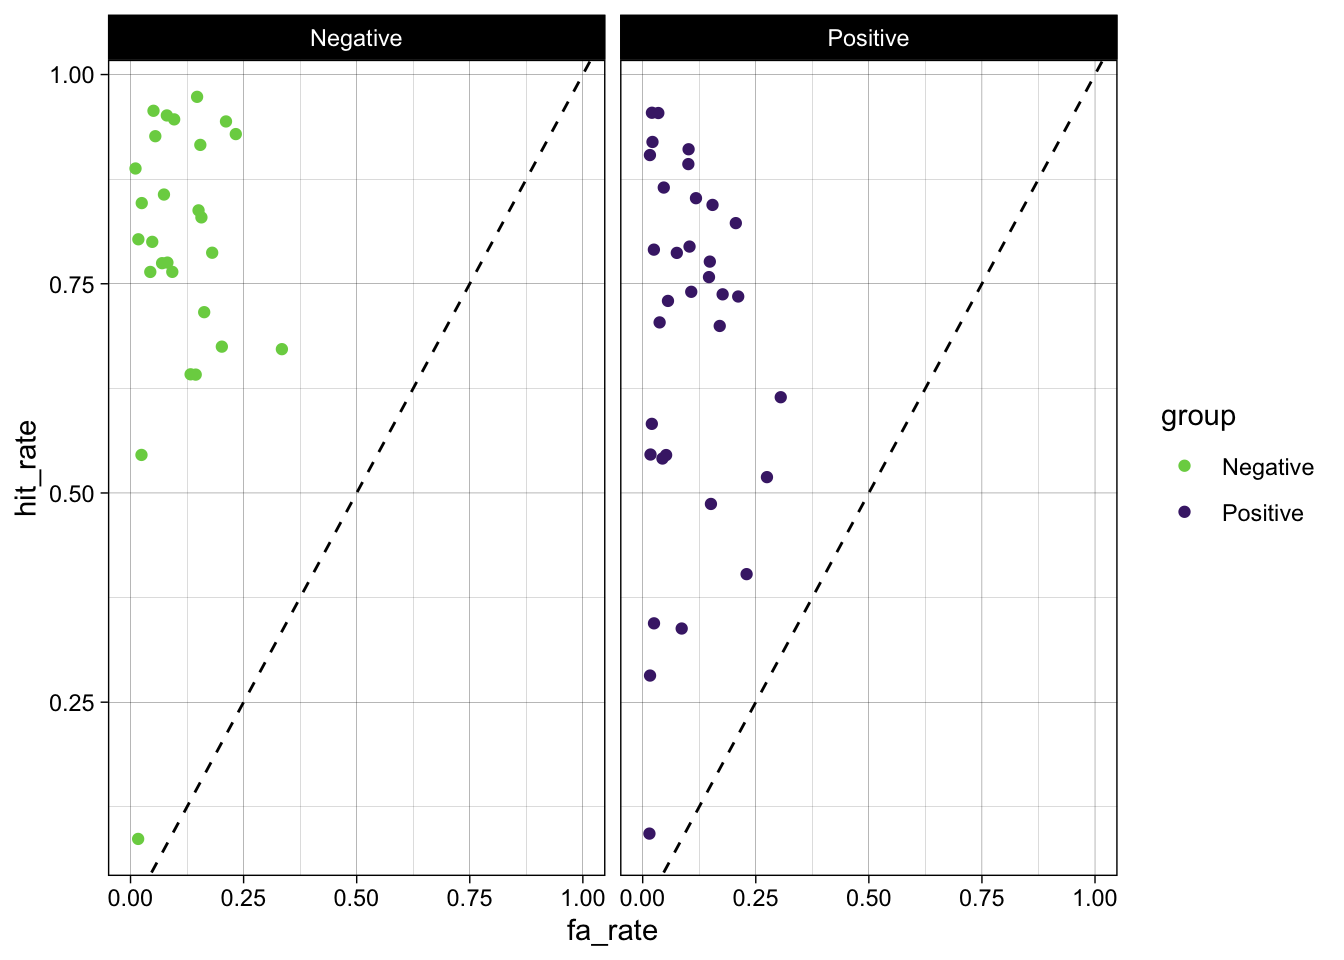
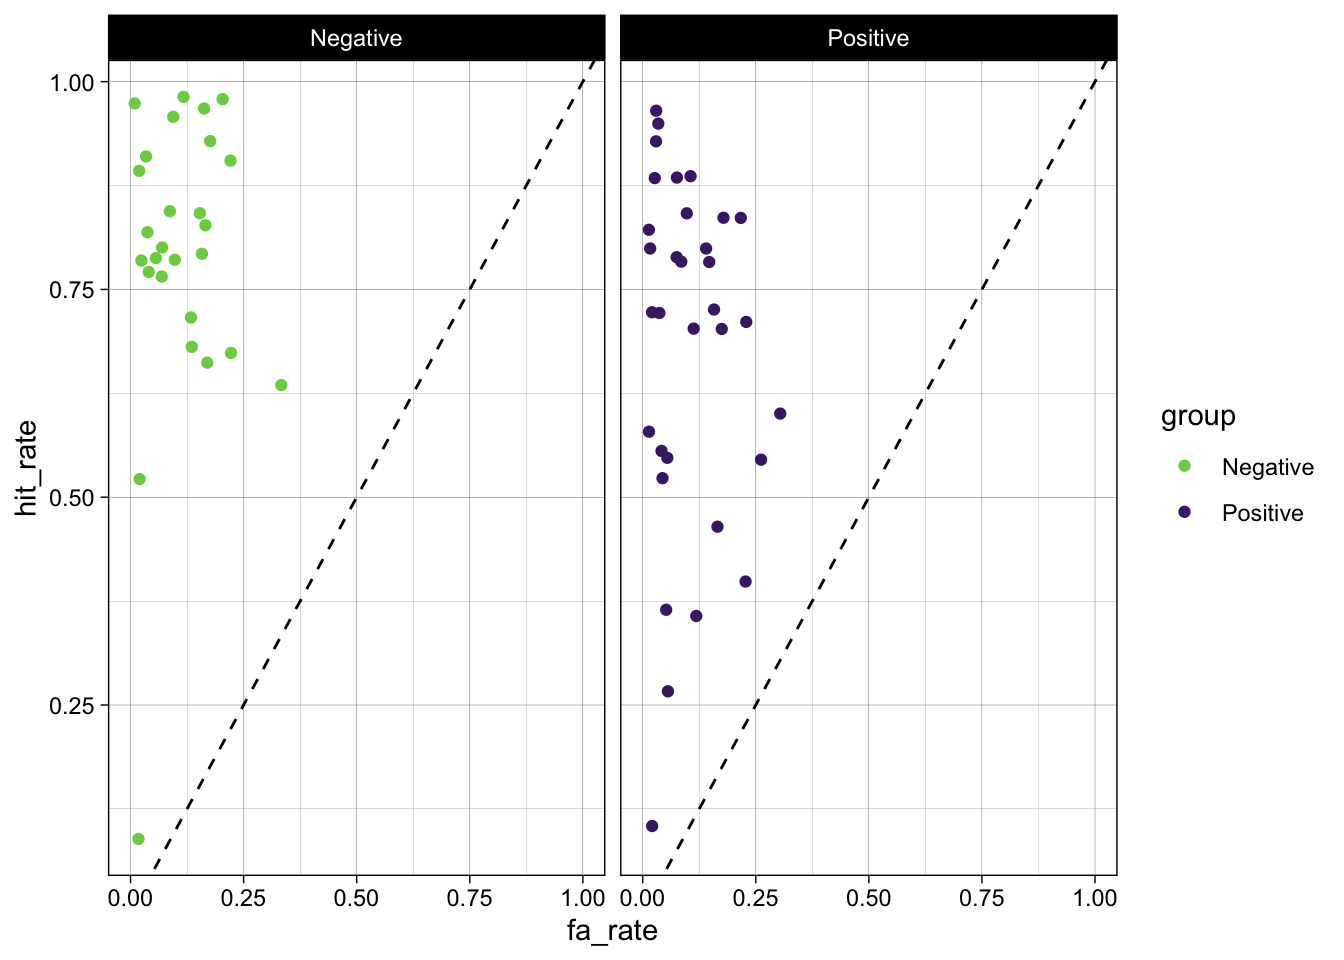
Fix typos

diff --git a/docs/pages/chapters/uebung-4-signal-detection.html b/docs/pages/chapters/uebung-4-signal-detection.html
@@ -493,7 +493,7 @@ dbl (5): ID, hit, miss, fa, cr
 ℹ Specify the column types or set `show_col_types = FALSE` to quiet this message.</code></pre>
 </div>
 </div>
-<p>Immer zuerst Daten anschauen.</p>
+<p>Wir empfehlen, immer zuerst die Daten anzuschauen.</p>
 <div class="cell">
 <div class="sourceCode" id="cb4"><pre class="downlit sourceCode r code-with-copy"><code class="sourceCode R"><span><span class="va">d</span></span></code><button title="Copy to Clipboard" class="code-copy-button"><i class="bi"></i></button></pre></div>
 <div class="cell-output cell-output-stdout">
@@ -528,8 +528,8 @@ dbl (5): ID, hit, miss, fa, cr
 <li>
 <code>cr</code>: Anzahl correct rejections</li>
 </ul>
-<p>Im Datensatz gibt es es einige Nullen – z.B. hat die Person mit der <code>ID</code> 1 keine False Alarms. Dies ist problematisch, weil wir die relative Häufigkeiten von Hits (<code>hit_rate</code>) und False Alarms (<code>fa_rate</code>) berechnen und anschliessen diese z-transformieren wollen. Die <code>fa_rate</code> ist der Anteil ‘Ja’-Antworten wenn das Wort tatsächlich aber nicht auf der Liste war, also <code>fa / (fa + cr)</code>. Bei der ersten Person wäre dies <code>0/(0 + 15) = 0</code>.</p>
-<p>Das Problem ist nun, dass die relative Häufigkeit hier als <span class="math inline">\(0\)</span> geschätzt wird - eine Wahrscheinlichkeit darf aber eigentlich nicht <span class="math inline">\(0\)</span> sein, sondern liegt zwischen <span class="math inline">\(-\infty\)</span> und <span class="math inline">\(\infty\)</span>. Wenn wir <code><a href="https://rdrr.io/r/stats/Normal.html">qnorm()</a></code> (die Quantilfunktion der Normalverteilung) auf den Wert <span class="math inline">\(0\)</span> anwenden, erhalten wir:</p>
+<p>Im Datensatz gibt es es einige Nullen – z.B. hat die Person mit der <code>ID</code> 1 keine False Alarms. Dies ist problematisch, weil wir die relative Häufigkeiten von Hits (<code>hit_rate</code>) und False Alarms (<code>fa_rate</code>) berechnen und diese anschliessend z-transformieren wollen. Die <code>fa_rate</code> ist der Anteil ‘Ja’-Antworten wenn das Wort tatsächlich gar nicht auf der Liste war, also <code>fa / (fa + cr)</code>. Bei der ersten Person wäre dies <code>0/(0 + 15) = 0</code>.</p>
+<p>Das Problem ist nun, dass wir hier mit der relativen Häufigkeit eine Wahrscheinlichkeit schätzen - eine Wahrscheinlichkeit darf aber nicht <span class="math inline">\(0\)</span> sein, sondern liegt zwischen <span class="math inline">\(-\infty\)</span> und <span class="math inline">\(\infty\)</span>. Wenn wir <code><a href="https://rdrr.io/r/stats/Normal.html">qnorm()</a></code> (die Quantilfunktion der Normalverteilung) auf den Wert <span class="math inline">\(0\)</span> anwenden, erhalten wir:</p>
 <div class="cell">
 <div class="sourceCode" id="cb6"><pre class="downlit sourceCode r code-with-copy"><code class="sourceCode R"><span><span class="fu"><a href="https://rdrr.io/r/stats/Normal.html">qnorm</a></span><span class="op">(</span><span class="fl">0</span><span class="op">)</span></span></code><button title="Copy to Clipboard" class="code-copy-button"><i class="bi"></i></button></pre></div>
 <div class="cell-output cell-output-stdout">
@@ -560,9 +560,28 @@ dbl (5): ID, hit, miss, fa, cr
 <div class="sourceCode" id="cb13"><pre class="downlit sourceCode r code-with-copy"><code class="sourceCode R"><span><span class="va">d</span> <span class="op">&lt;-</span> <span class="va">d</span> <span class="op">|&gt;</span></span>
 <span>    <span class="fu"><a href="https://dplyr.tidyverse.org/reference/mutate.html">mutate</a></span><span class="op">(</span><span class="fu"><a href="https://dplyr.tidyverse.org/reference/across.html">across</a></span><span class="op">(</span><span class="fu"><a href="https://rdrr.io/r/base/c.html">c</a></span><span class="op">(</span><span class="va">hit</span>, <span class="va">miss</span>, <span class="va">fa</span>, <span class="va">cr</span><span class="op">)</span>, <span class="va">add_half_count</span><span class="op">)</span><span class="op">)</span></span></code><button title="Copy to Clipboard" class="code-copy-button"><i class="bi"></i></button></pre></div>
 </div>
+<div class="cell">
+<div class="sourceCode" id="cb14"><pre class="downlit sourceCode r code-with-copy"><code class="sourceCode R"><span><span class="va">d</span></span></code><button title="Copy to Clipboard" class="code-copy-button"><i class="bi"></i></button></pre></div>
+<div class="cell-output cell-output-stdout">
+<pre><code># A tibble: 60 × 6
+      ID group      hit  miss    fa    cr
+   &lt;dbl&gt; &lt;chr&gt;    &lt;dbl&gt; &lt;dbl&gt; &lt;dbl&gt; &lt;dbl&gt;
+ 1     1 Negative  13.5   2.5   0.5  15.5
+ 2     2 Negative  12.5   3.5   1.5  14.5
+ 3     3 Negative  14.5   1.5   0.5  15.5
+ 4     4 Negative  12.5   3.5   1.5  14.5
+ 5     5 Negative  11.5   4.5   2.5  13.5
+ 6     6 Negative  12.5   3.5   1.5  14.5
+ 7     7 Negative  10.5   5.5   2.5  13.5
+ 8     8 Negative  13.5   2.5   1.5  14.5
+ 9     9 Negative  12.5   3.5   0.5  15.5
+10    10 Negative  12.5   3.5   2.5  13.5
+# ℹ 50 more rows</code></pre>
+</div>
+</div>
 </section><section id="hit-und-false-alarm-rate-berechnen" class="level2"><h2 class="anchored" data-anchor-id="hit-und-false-alarm-rate-berechnen">Hit und False Alarm Rate berechnen</h2>
 <div class="cell">
-<div class="sourceCode" id="cb14"><pre class="downlit sourceCode r code-with-copy"><code class="sourceCode R"><span><span class="va">d</span> <span class="op">&lt;-</span> <span class="va">d</span> <span class="op">|&gt;</span></span>
+<div class="sourceCode" id="cb16"><pre class="downlit sourceCode r code-with-copy"><code class="sourceCode R"><span><span class="va">d</span> <span class="op">&lt;-</span> <span class="va">d</span> <span class="op">|&gt;</span></span>
 <span>    <span class="fu"><a href="https://dplyr.tidyverse.org/reference/mutate.html">mutate</a></span><span class="op">(</span></span>
 <span>        hit_rate <span class="op">=</span> <span class="va">hit</span> <span class="op">/</span> <span class="op">(</span><span class="va">hit</span> <span class="op">+</span> <span class="va">miss</span><span class="op">)</span>,</span>
 <span>        fa_rate <span class="op">=</span> <span class="va">fa</span> <span class="op">/</span> <span class="op">(</span><span class="va">fa</span> <span class="op">+</span> <span class="va">cr</span><span class="op">)</span></span>
@@ -571,7 +590,7 @@ dbl (5): ID, hit, miss, fa, cr
 </section><section id="hit-rate-vs-false-alarm-rate" class="level2"><h2 class="anchored" data-anchor-id="hit-rate-vs-false-alarm-rate">Hit Rate vs False Alarm Rate</h2>
 <p>Bevor wir die SDT Kennzahlen berechnen, stellen wir die hit rate und false alarm rate grafisch dar:</p>
 <div class="cell">
-<div class="sourceCode" id="cb15"><pre class="downlit sourceCode r code-with-copy"><code class="sourceCode R"><span><span class="va">d</span> <span class="op">|&gt;</span></span>
+<div class="sourceCode" id="cb17"><pre class="downlit sourceCode r code-with-copy"><code class="sourceCode R"><span><span class="va">d</span> <span class="op">|&gt;</span></span>
 <span>      <span class="fu"><a href="https://ggplot2.tidyverse.org/reference/ggplot.html">ggplot</a></span><span class="op">(</span><span class="fu"><a href="https://ggplot2.tidyverse.org/reference/aes.html">aes</a></span><span class="op">(</span><span class="va">fa_rate</span>, <span class="va">hit_rate</span>, color <span class="op">=</span> <span class="va">group</span><span class="op">)</span><span class="op">)</span> <span class="op">+</span></span>
 <span>      <span class="fu"><a href="https://ggplot2.tidyverse.org/reference/geom_abline.html">geom_abline</a></span><span class="op">(</span>intercept <span class="op">=</span> <span class="fl">0</span>, slope <span class="op">=</span> <span class="fl">1</span>, linetype <span class="op">=</span> <span class="fl">2</span><span class="op">)</span> <span class="op">+</span></span>
 <span>      <span class="fu"><a href="https://ggplot2.tidyverse.org/reference/geom_jitter.html">geom_jitter</a></span><span class="op">(</span><span class="op">)</span> <span class="op">+</span></span>
@@ -580,19 +599,19 @@ dbl (5): ID, hit, miss, fa, cr
 <span>      <span class="fu"><a href="https://ggplot2.tidyverse.org/reference/lims.html">xlim</a></span><span class="op">(</span><span class="fu"><a href="https://rdrr.io/r/base/c.html">c</a></span><span class="op">(</span><span class="fl">0</span>, <span class="fl">1</span><span class="op">)</span><span class="op">)</span> <span class="op">+</span></span>
 <span>      <span class="fu"><a href="https://ggplot2.tidyverse.org/reference/ggtheme.html">theme_linedraw</a></span><span class="op">(</span><span class="op">)</span></span></code><button title="Copy to Clipboard" class="code-copy-button"><i class="bi"></i></button></pre></div>
 <div class="cell-output-display">
-<p><img src="uebung-4-signal-detection_files/figure-html/unnamed-chunk-10-1.png" class="img-fluid" width="672"></p>
+<p><img src="uebung-4-signal-detection_files/figure-html/unnamed-chunk-11-1.png" class="img-fluid" width="672"></p>
 </div>
 </div>
 </section><section id="d-und-bias-berechnen" class="level2"><h2 class="anchored" data-anchor-id="d-und-bias-berechnen">d’ und bias berechnen</h2>
 <div class="cell">
-<div class="sourceCode" id="cb16"><pre class="downlit sourceCode r code-with-copy"><code class="sourceCode R"><span><span class="va">d</span> <span class="op">&lt;-</span> <span class="va">d</span> <span class="op">|&gt;</span></span>
+<div class="sourceCode" id="cb18"><pre class="downlit sourceCode r code-with-copy"><code class="sourceCode R"><span><span class="va">d</span> <span class="op">&lt;-</span> <span class="va">d</span> <span class="op">|&gt;</span></span>
 <span>    <span class="fu"><a href="https://dplyr.tidyverse.org/reference/mutate.html">mutate</a></span><span class="op">(</span></span>
 <span>        zhr <span class="op">=</span> <span class="fu"><a href="https://rdrr.io/r/stats/Normal.html">qnorm</a></span><span class="op">(</span><span class="va">hit_rate</span><span class="op">)</span>,</span>
 <span>        zfa <span class="op">=</span> <span class="fu"><a href="https://rdrr.io/r/stats/Normal.html">qnorm</a></span><span class="op">(</span><span class="va">fa_rate</span><span class="op">)</span></span>
 <span>    <span class="op">)</span></span></code><button title="Copy to Clipboard" class="code-copy-button"><i class="bi"></i></button></pre></div>
 </div>
 <div class="cell">
-<div class="sourceCode" id="cb17"><pre class="downlit sourceCode r code-with-copy"><code class="sourceCode R"><span><span class="va">d</span> <span class="op">&lt;-</span> <span class="va">d</span> <span class="op">|&gt;</span></span>
+<div class="sourceCode" id="cb19"><pre class="downlit sourceCode r code-with-copy"><code class="sourceCode R"><span><span class="va">d</span> <span class="op">&lt;-</span> <span class="va">d</span> <span class="op">|&gt;</span></span>
 <span>    <span class="fu"><a href="https://dplyr.tidyverse.org/reference/mutate.html">mutate</a></span><span class="op">(</span></span>
 <span>        dprime <span class="op">=</span> <span class="va">zhr</span> <span class="op">-</span> <span class="va">zfa</span>,</span>
 <span>        k <span class="op">=</span> <span class="op">-</span><span class="va">zfa</span>,</span>
@@ -601,11 +620,11 @@ dbl (5): ID, hit, miss, fa, cr
 </div>
 <p>Wir runden nun <code>dprime, k</code> und <code>c</code> auf zwei Nachkommastellen.</p>
 <div class="cell">
-<div class="sourceCode" id="cb18"><pre class="downlit sourceCode r code-with-copy"><code class="sourceCode R"><span><span class="va">d</span> <span class="op">&lt;-</span> <span class="va">d</span> <span class="op">|&gt;</span></span>
+<div class="sourceCode" id="cb20"><pre class="downlit sourceCode r code-with-copy"><code class="sourceCode R"><span><span class="va">d</span> <span class="op">&lt;-</span> <span class="va">d</span> <span class="op">|&gt;</span></span>
 <span>    <span class="fu"><a href="https://dplyr.tidyverse.org/reference/mutate.html">mutate</a></span><span class="op">(</span><span class="fu"><a href="https://dplyr.tidyverse.org/reference/across.html">across</a></span><span class="op">(</span><span class="fu"><a href="https://rdrr.io/r/base/c.html">c</a></span><span class="op">(</span><span class="va">dprime</span>, <span class="va">k</span>, <span class="va">c</span><span class="op">)</span>, \<span class="op">(</span><span class="va">x</span><span class="op">)</span> <span class="fu"><a href="https://rdrr.io/r/base/Round.html">round</a></span><span class="op">(</span><span class="va">x</span>, <span class="fl">2</span><span class="op">)</span><span class="op">)</span><span class="op">)</span></span></code><button title="Copy to Clipboard" class="code-copy-button"><i class="bi"></i></button></pre></div>
 </div>
 <div class="cell">
-<div class="sourceCode" id="cb19"><pre class="downlit sourceCode r code-with-copy"><code class="sourceCode R"><span><span class="va">d</span></span></code><button title="Copy to Clipboard" class="code-copy-button"><i class="bi"></i></button></pre></div>
+<div class="sourceCode" id="cb21"><pre class="downlit sourceCode r code-with-copy"><code class="sourceCode R"><span><span class="va">d</span></span></code><button title="Copy to Clipboard" class="code-copy-button"><i class="bi"></i></button></pre></div>
 <div class="cell-output cell-output-stdout">
 <pre><code># A tibble: 60 × 13
       ID group   hit  miss    fa    cr hit_rate fa_rate   zhr   zfa dprime     k
@@ -626,19 +645,19 @@ dbl (5): ID, hit, miss, fa, cr
 </div>
 </section><section id="aggregierte-kennzahlen" class="level2"><h2 class="anchored" data-anchor-id="aggregierte-kennzahlen">Aggregierte Kennzahlen</h2>
 <div class="cell">
-<div class="sourceCode" id="cb21"><pre class="downlit sourceCode r code-with-copy"><code class="sourceCode R"><span><span class="va">se</span> <span class="op">&lt;-</span> <span class="kw">function</span><span class="op">(</span><span class="va">x</span><span class="op">)</span> <span class="op">{</span></span>
+<div class="sourceCode" id="cb23"><pre class="downlit sourceCode r code-with-copy"><code class="sourceCode R"><span><span class="va">se</span> <span class="op">&lt;-</span> <span class="kw">function</span><span class="op">(</span><span class="va">x</span><span class="op">)</span> <span class="op">{</span></span>
 <span>  <span class="fu"><a href="https://rdrr.io/r/stats/sd.html">sd</a></span><span class="op">(</span><span class="va">x</span><span class="op">)</span> <span class="op">/</span> <span class="fu"><a href="https://rdrr.io/r/base/MathFun.html">sqrt</a></span><span class="op">(</span><span class="fu"><a href="https://rdrr.io/r/base/length.html">length</a></span><span class="op">(</span><span class="va">x</span><span class="op">)</span><span class="op">)</span></span>
 <span><span class="op">}</span></span></code><button title="Copy to Clipboard" class="code-copy-button"><i class="bi"></i></button></pre></div>
 </div>
 <div class="cell">
-<div class="sourceCode" id="cb22"><pre class="downlit sourceCode r code-with-copy"><code class="sourceCode R"><span><span class="va">dprimes</span> <span class="op">&lt;-</span> <span class="va">d</span> <span class="op">|&gt;</span></span>
+<div class="sourceCode" id="cb24"><pre class="downlit sourceCode r code-with-copy"><code class="sourceCode R"><span><span class="va">dprimes</span> <span class="op">&lt;-</span> <span class="va">d</span> <span class="op">|&gt;</span></span>
 <span>  <span class="fu"><a href="https://dplyr.tidyverse.org/reference/select.html">select</a></span><span class="op">(</span><span class="va">group</span>, <span class="va">dprime</span><span class="op">)</span> <span class="op">|&gt;</span> </span>
 <span>  <span class="fu"><a href="https://dplyr.tidyverse.org/reference/group_by.html">group_by</a></span><span class="op">(</span><span class="va">group</span><span class="op">)</span> <span class="op">|&gt;</span> </span>
 <span>  <span class="fu"><a href="https://dplyr.tidyverse.org/reference/summarise.html">summarize</a></span><span class="op">(</span>mean <span class="op">=</span> <span class="fu"><a href="https://rdrr.io/r/base/mean.html">mean</a></span><span class="op">(</span><span class="va">dprime</span><span class="op">)</span>,</span>
 <span>            se <span class="op">=</span> <span class="fu">se</span><span class="op">(</span><span class="va">dprime</span><span class="op">)</span><span class="op">)</span></span></code><button title="Copy to Clipboard" class="code-copy-button"><i class="bi"></i></button></pre></div>
 </div>
 <div class="cell">
-<div class="sourceCode" id="cb23"><pre class="downlit sourceCode r code-with-copy"><code class="sourceCode R"><span><span class="va">cs</span> <span class="op">&lt;-</span> <span class="va">d</span> <span class="op">|&gt;</span> </span>
+<div class="sourceCode" id="cb25"><pre class="downlit sourceCode r code-with-copy"><code class="sourceCode R"><span><span class="va">cs</span> <span class="op">&lt;-</span> <span class="va">d</span> <span class="op">|&gt;</span> </span>
 <span>  <span class="fu"><a href="https://dplyr.tidyverse.org/reference/select.html">select</a></span><span class="op">(</span><span class="va">group</span>, <span class="va">c</span><span class="op">)</span> <span class="op">|&gt;</span> </span>
 <span>  <span class="fu"><a href="https://dplyr.tidyverse.org/reference/group_by.html">group_by</a></span><span class="op">(</span><span class="va">group</span><span class="op">)</span> <span class="op">|&gt;</span> </span>
 <span>  <span class="fu"><a href="https://dplyr.tidyverse.org/reference/summarise.html">summarize</a></span><span class="op">(</span>mean <span class="op">=</span> <span class="fu"><a href="https://rdrr.io/r/base/mean.html">mean</a></span><span class="op">(</span><span class="va">c</span><span class="op">)</span>,</span>
@@ -647,7 +666,7 @@ dbl (5): ID, hit, miss, fa, cr
 </section><section id="grafische-darstellung-von-d-und-bias" class="level2"><h2 class="anchored" data-anchor-id="grafische-darstellung-von-d-und-bias">Grafische Darstellung von <code>d'</code> und <code>bias</code>
 </h2>
 <div class="cell">
-<div class="sourceCode" id="cb24"><pre class="downlit sourceCode r code-with-copy"><code class="sourceCode R"><span><span class="va">p_dprimes</span> <span class="op">&lt;-</span> <span class="va">dprimes</span> <span class="op">|&gt;</span></span>
+<div class="sourceCode" id="cb26"><pre class="downlit sourceCode r code-with-copy"><code class="sourceCode R"><span><span class="va">p_dprimes</span> <span class="op">&lt;-</span> <span class="va">dprimes</span> <span class="op">|&gt;</span></span>
 <span>  <span class="fu"><a href="https://ggplot2.tidyverse.org/reference/ggplot.html">ggplot</a></span><span class="op">(</span><span class="fu"><a href="https://ggplot2.tidyverse.org/reference/aes.html">aes</a></span><span class="op">(</span>x<span class="op">=</span><span class="va">group</span>, y<span class="op">=</span><span class="va">mean</span>, group<span class="op">=</span><span class="fl">1</span><span class="op">)</span><span class="op">)</span> <span class="op">+</span></span>
 <span>    <span class="fu"><a href="https://ggplot2.tidyverse.org/reference/geom_jitter.html">geom_jitter</a></span><span class="op">(</span><span class="fu"><a href="https://ggplot2.tidyverse.org/reference/aes.html">aes</a></span><span class="op">(</span><span class="va">group</span>, <span class="va">dprime</span><span class="op">)</span>, alpha <span class="op">=</span> <span class="fl">0.1</span>, data <span class="op">=</span> <span class="va">d</span>, width <span class="op">=</span> <span class="fl">0.05</span><span class="op">)</span> <span class="op">+</span></span>
 <span>    <span class="fu"><a href="https://ggplot2.tidyverse.org/reference/geom_path.html">geom_line</a></span><span class="op">(</span><span class="op">)</span> <span class="op">+</span></span>
@@ -656,7 +675,7 @@ dbl (5): ID, hit, miss, fa, cr
 <span>    <span class="fu"><a href="https://ggplot2.tidyverse.org/reference/labs.html">ylab</a></span><span class="op">(</span><span class="st">"Sensitivity"</span><span class="op">)</span></span></code><button title="Copy to Clipboard" class="code-copy-button"><i class="bi"></i></button></pre></div>
 </div>
 <div class="cell">
-<div class="sourceCode" id="cb25"><pre class="downlit sourceCode r code-with-copy"><code class="sourceCode R"><span><span class="va">p_cs</span> <span class="op">&lt;-</span> <span class="va">cs</span> <span class="op">|&gt;</span></span>
+<div class="sourceCode" id="cb27"><pre class="downlit sourceCode r code-with-copy"><code class="sourceCode R"><span><span class="va">p_cs</span> <span class="op">&lt;-</span> <span class="va">cs</span> <span class="op">|&gt;</span></span>
 <span>    <span class="fu"><a href="https://ggplot2.tidyverse.org/reference/ggplot.html">ggplot</a></span><span class="op">(</span><span class="fu"><a href="https://ggplot2.tidyverse.org/reference/aes.html">aes</a></span><span class="op">(</span>x<span class="op">=</span><span class="va">group</span>, y<span class="op">=</span><span class="va">mean</span>, group<span class="op">=</span><span class="fl">1</span><span class="op">)</span><span class="op">)</span> <span class="op">+</span></span>
 <span>    <span class="fu"><a href="https://ggplot2.tidyverse.org/reference/geom_jitter.html">geom_jitter</a></span><span class="op">(</span><span class="fu"><a href="https://ggplot2.tidyverse.org/reference/aes.html">aes</a></span><span class="op">(</span><span class="va">group</span>, <span class="va">c</span><span class="op">)</span>, alpha <span class="op">=</span> <span class="fl">0.1</span>, data <span class="op">=</span> <span class="va">d</span>, width <span class="op">=</span> <span class="fl">0.05</span><span class="op">)</span> <span class="op">+</span></span>
 <span>    <span class="fu"><a href="https://ggplot2.tidyverse.org/reference/geom_path.html">geom_line</a></span><span class="op">(</span><span class="op">)</span> <span class="op">+</span></span>
@@ -665,9 +684,9 @@ dbl (5): ID, hit, miss, fa, cr
 <span>    <span class="fu"><a href="https://ggplot2.tidyverse.org/reference/labs.html">ylab</a></span><span class="op">(</span><span class="st">"Bias"</span><span class="op">)</span></span></code><button title="Copy to Clipboard" class="code-copy-button"><i class="bi"></i></button></pre></div>
 </div>
 <div class="cell">
-<div class="sourceCode" id="cb26"><pre class="downlit sourceCode r code-with-copy"><code class="sourceCode R"><span><span class="va">p_dprimes</span> <span class="op">+</span> <span class="va">p_cs</span></span></code><button title="Copy to Clipboard" class="code-copy-button"><i class="bi"></i></button></pre></div>
+<div class="sourceCode" id="cb28"><pre class="downlit sourceCode r code-with-copy"><code class="sourceCode R"><span><span class="va">p_dprimes</span> <span class="op">+</span> <span class="va">p_cs</span></span></code><button title="Copy to Clipboard" class="code-copy-button"><i class="bi"></i></button></pre></div>
 <div class="cell-output-display">
-<p><img src="uebung-4-signal-detection_files/figure-html/unnamed-chunk-20-1.png" class="img-fluid" width="672"></p>
+<p><img src="uebung-4-signal-detection_files/figure-html/unnamed-chunk-21-1.png" class="img-fluid" width="672"></p>
 </div>
 </div>
 </section><section id="fragen" class="level2"><h2 class="anchored" data-anchor-id="fragen">Fragen</h2>
@@ -693,7 +712,7 @@ dbl (5): ID, hit, miss, fa, cr
 </blockquote>
 <div class="cell">
 <div class="cell-output-display">
-<p><img src="uebung-4-signal-detection_files/figure-html/unnamed-chunk-24-1.png" class="img-fluid" width="672"></p>
+<p><img src="uebung-4-signal-detection_files/figure-html/unnamed-chunk-25-1.png" class="img-fluid" width="672"></p>
 </div>
 </div>
 </section></section><section id="fragen-für-peer-review" class="level2"><h2 class="anchored" data-anchor-id="fragen-für-peer-review">Fragen für Peer Review</h2>
